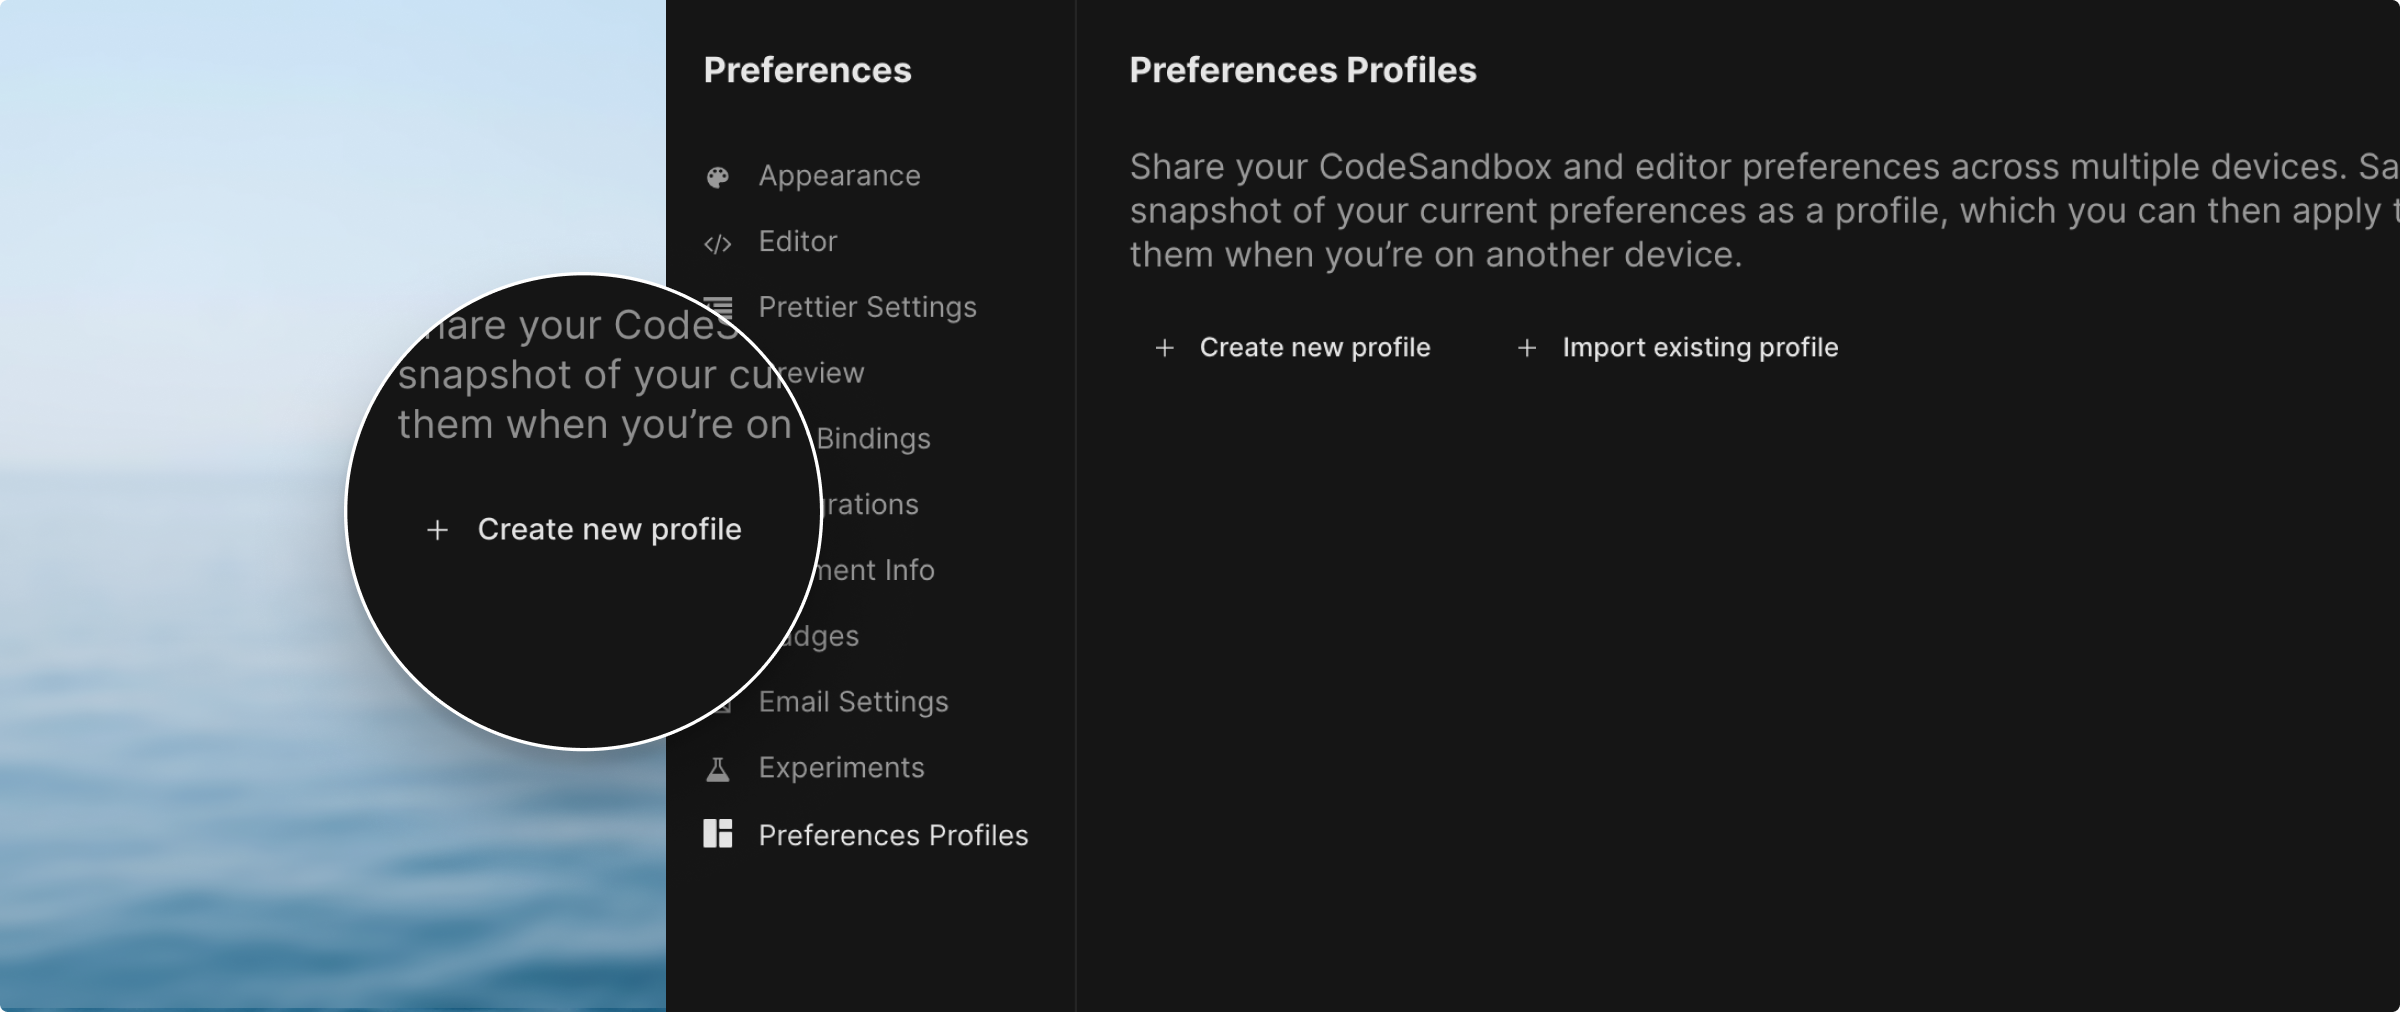
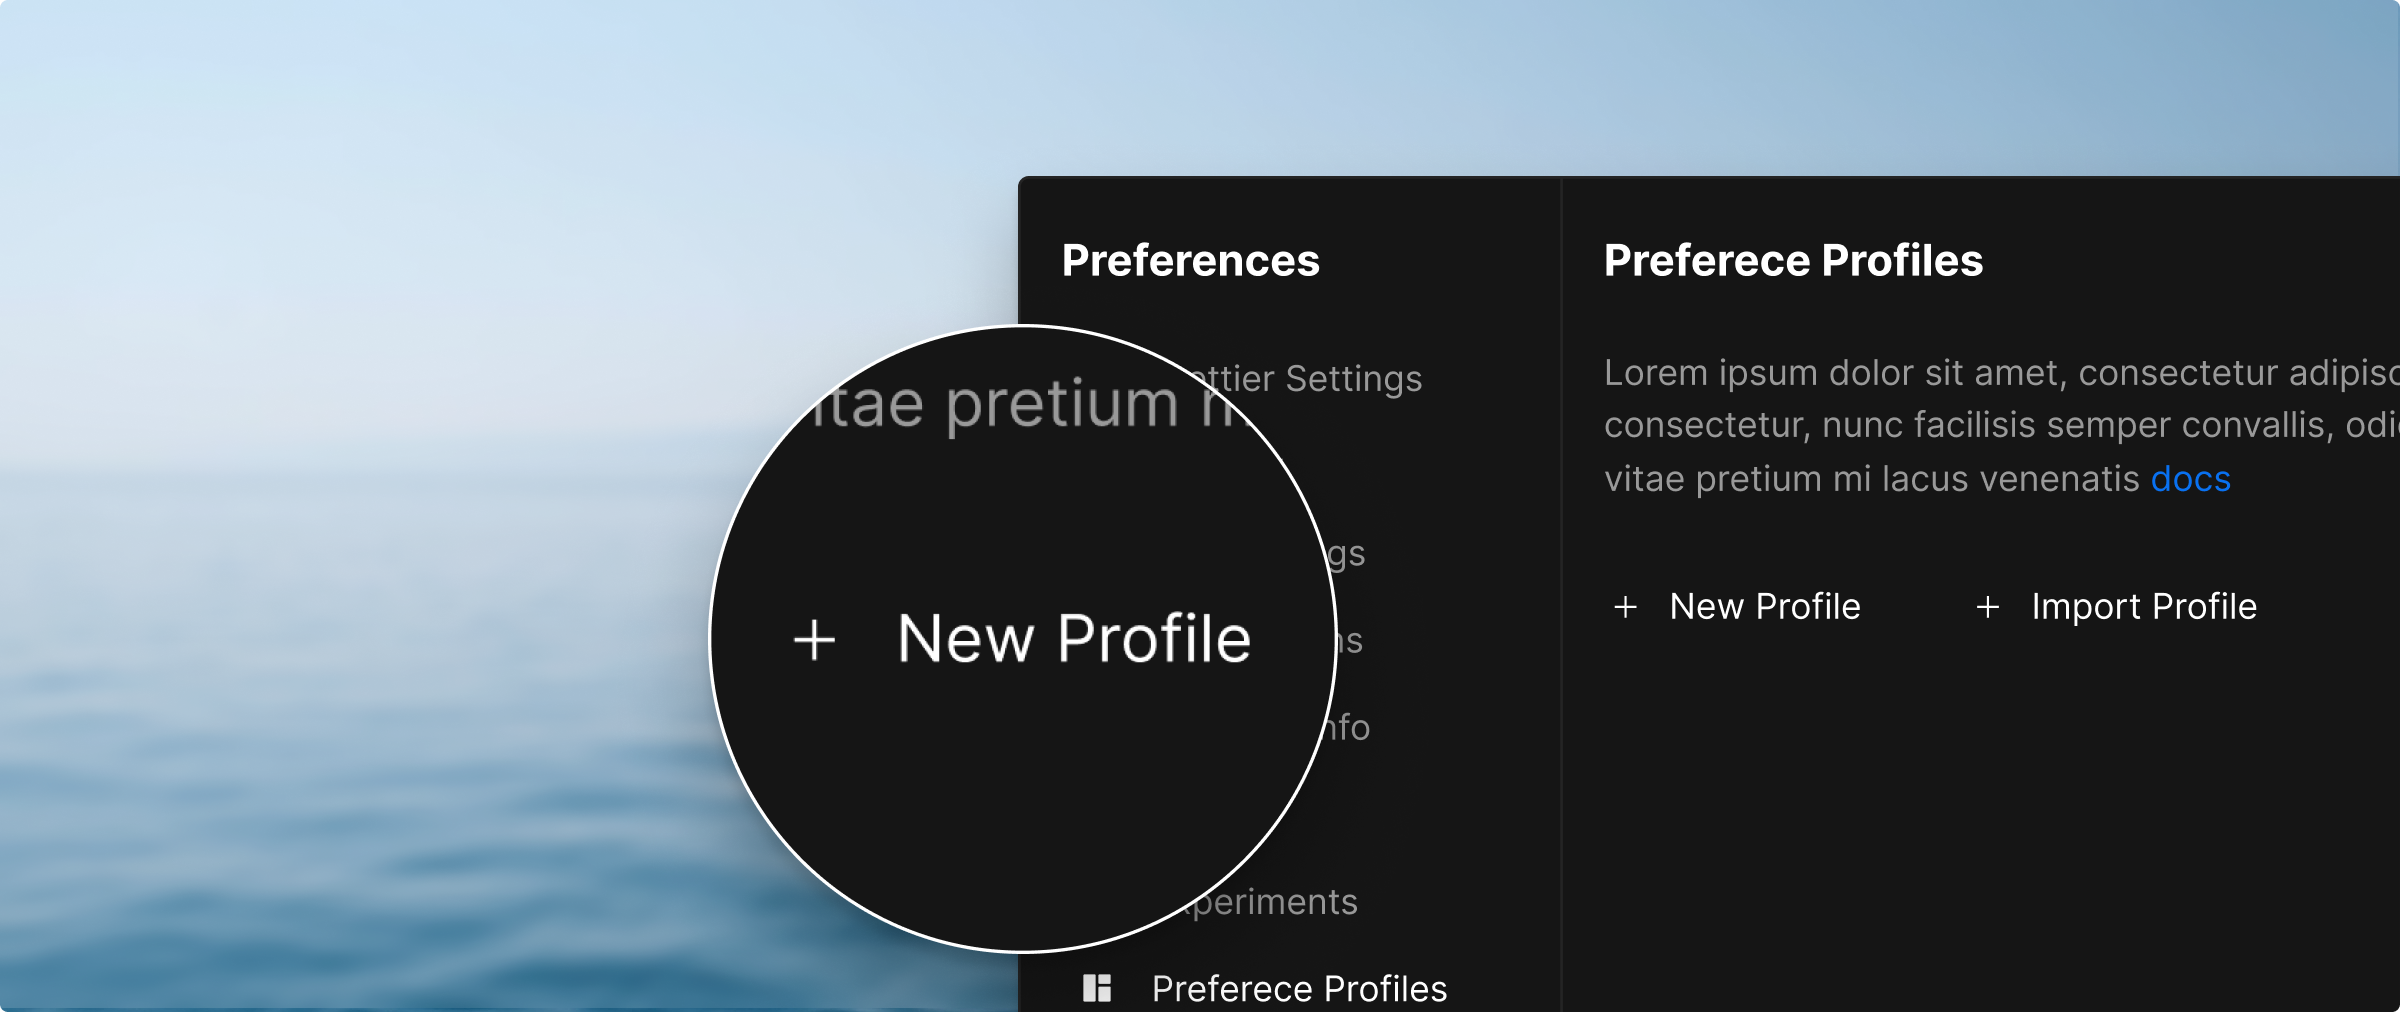
add more

diff --git a/packages/homepage/src/templates/docs.js b/packages/homepage/src/templates/docs.js
@@ -192,6 +192,7 @@ const Docs = ({
                     {location.pathname.split('/docs')[1] === node.fields.slug &&
                       node.headings.map(heading => (
                         <li
+                          key={normalize(heading.value)}
                           css={`
                             padding: 0 2rem;
                             margin: 0;

diff --git a/packages/homepage/content/docs/3-preferences.md b/packages/homepage/content/docs/3-preferences.md
@@ -1,0 +1,56 @@
+---
+title: Preferences Profiles
+authors: ['CompuIves']
+description:
+  Share your CodeSandbox and editor preferences across multiple devices.
+---
+
+## Preferences Profiles
+
+Preferences Profiles allow you to save a snapshot of your current preferences as
+a profile, which you can then apply to re-use them when you’re on another
+device.
+
+## How to create a new Preference Profile?
+
+To save a snapshot of your CodeSandbox preferences you can open your
+`Preferences` located in the menu available in the upper most top right of your
+screen.
+
+In there navigate to `Preferences Profiles` and you can now see a button saying
+`Create new profile`:
+
+![Create a Profile](./images/preferences-create.png)
+
+By clicking it we will save your preferences on the cloud so that they can be
+retrieved later and applied in another computer.
+
+## Applying your preferences in another device
+
+After creating your first profile you will get an updated interface that will
+have a list of your profiles.
+
+In here you can apply all your preferences using the `Apply` button on the menu:
+
+![Apply Profile](./images/preferences-apply.png)
+
+This will reload the page and apply all the preferences and ask you to reload
+the page to see your new workspace.
+
+## Can I download a profile to my computer?
+
+Yes, if you do now wish to use our uploading service you can create a new
+Profile and then download it immediately, this will give you a JSON file you can
+then import in another computer using the `Import existing profile` button.
+
+![Import a Profile](./images/preferences-import.png)
+
+After this is done you are also welcome to remove this profile and it will still
+be applied.
+
+You can use this to have several CodeSandbox profiles.
+
+## Can I have more than one Profile?
+
+Right now we only have the possibility to create on profile on the cloud but
+this will change in the future.
